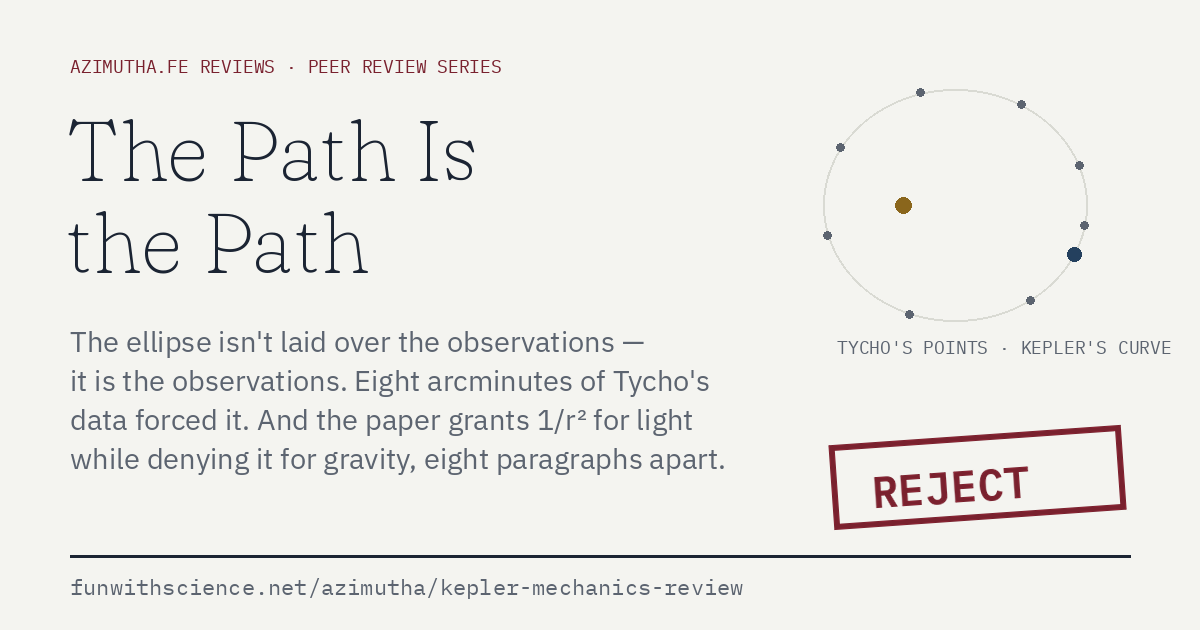
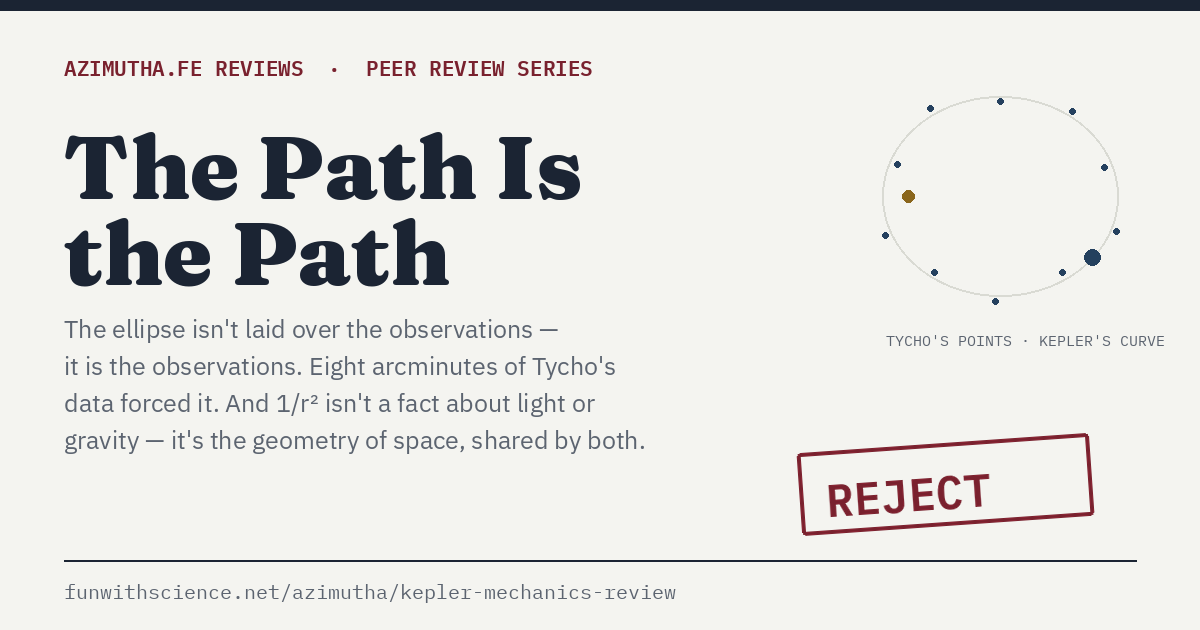
Reframe kepler inverse-square over-claim; correct gyroscope citation framing

diff --git a/kepler-mechanics-review/index.html b/kepler-mechanics-review/index.html
@@ -4,18 +4,18 @@
 <meta charset="UTF-8">
 <meta name="viewport" content="width=device-width, initial-scale=1.0">
 <title>The Path Is the Path — the "Keplerian Mechanics Audit" paper, reviewed | FunWithScience</title>
-<meta name="description" content="A review of the 'Critical Audit of Keplerian Mechanics and Foundational Optics' paper, which calls the elliptical orbit a 'geometric abstraction.' The ellipse is the observation: eight arcminutes of Tycho's data forced it. The paper endorses the inverse-square law for light on one slide and denies it for gravity on another.">
+<meta name="description" content="A review of the 'Critical Audit of Keplerian Mechanics and Foundational Optics' paper, which calls the elliptical orbit a 'geometric abstraction.' The ellipse is the observation: eight arcminutes of Tycho's data forced it. And the paper certifies light's inverse-square law as fact while calling the identical law fiction for gravity — but 1/r² is geometry, not a property of light: anything spread over a sphere's growing area thins as 1/r², so granting it for light grants it for gravity.">
 <meta property="og:type" content="article">
 <meta property="og:site_name" content="FunWithScience">
 <meta property="og:title" content="The Path Is the Path — the 'Keplerian Mechanics Audit' paper, reviewed">
-<meta property="og:description" content="The ellipse isn't laid over the data — it is the data. And the paper grants the inverse-square law for light while denying it for gravity, eight paragraphs apart. Verdict: reject.">
+<meta property="og:description" content="The ellipse isn't laid over the data — it is the data. And the paper certifies light's inverse-square law as fact, then explains it with a 'medium' — but a clean 1/d² law can only come from spreading through empty space. Verdict: reject.">
 <meta property="og:url" content="https://funwithscience.net/azimutha/kepler-mechanics-review/">
 <meta property="og:image" content="https://funwithscience.net/azimutha/kepler-mechanics-review/card.png">
 <meta property="og:image:width" content="1200">
 <meta property="og:image:height" content="630">
 <meta name="twitter:card" content="summary_large_image">
 <meta name="twitter:title" content="The Path Is the Path — the 'Keplerian Mechanics Audit' paper, reviewed">
-<meta name="twitter:description" content="The ellipse is the observation, not an overlay. And the paper endorses 1/r² for light while denying it for gravity. Verdict: reject.">
+<meta name="twitter:description" content="The ellipse is the observation, not an overlay. And the paper certifies light's 1/d² as fact — but that clean law needs the empty-space geometry its 'medium' can't give. Verdict: reject.">
 <meta name="twitter:image" content="https://funwithscience.net/azimutha/kepler-mechanics-review/card.png">
 <link rel="canonical" href="https://funwithscience.net/azimutha/kepler-mechanics-review/">
 <link rel="preconnect" href="https://fonts.googleapis.com">
@@ -131,7 +131,7 @@
     <div class="eyebrow"><a href="../">← Azimutha.FE Reviews</a> · FunWithScience Peer Review Series</div>
     <h1>The Path Is the Path</h1>
     <p class="sub">A review of <em>"A Critical Audit of Keplerian Mechanics and Foundational Optics"</em> — a paper arguing that the elliptical orbit is "geometric abstraction" imposed on raw observation.</p>
-    <p class="byline"><b>Verdict up front:</b> the ellipse is not laid on top of the observations — it <em>is</em> the observations. Eight arcminutes of <a href="https://en.wikipedia.org/wiki/Tycho_Brahe">Tycho Brahe's data</a>, which the paper itself calls hardware-grade, are what forced Kepler off the circle; the circle was the abstraction. And the paper's own text convicts it twice: it endorses the inverse-square law for light as "a verified, measurable fact" three slides after treating the identical law for gravity as chalkboard fiction, and its whole project is to undo the one advance — the fall of epicycles — that the author elsewhere holds up as science's model correction.</p>
+    <p class="byline"><b>Verdict up front:</b> the ellipse is not laid on top of the observations — it <em>is</em> the observations. Eight arcminutes of <a href="https://en.wikipedia.org/wiki/Tycho_Brahe">Tycho Brahe's data</a>, which the paper itself calls hardware-grade, are what forced Kepler off the circle; the circle was the abstraction. And the paper's own physics turns against it: 1/r² is not a fact about light or gravity but about space — any influence spread over a sphere's growing surface (area ∝ r²) thins as 1/r² — so certifying it as "a verified, measurable fact" for light while calling the identical law "fiction" for gravity is accepting the geometry of three-dimensional space for one and denying it for the other. And its whole project is to undo the one advance — the fall of epicycles — that the author elsewhere holds up as science's model correction.</p>
   </div>
 </header>
 
@@ -245,7 +245,7 @@
       <span class="lbl t">What's true</span>
       <p>It is correct that pumping out the air doesn't change the object's weight, and that the feather and the bowling ball then fall together. The paper reports the demonstration accurately.</p>
       <span class="lbl w">The premise doing the work</span>
-      <p>Two false moves, both recycled from the account's earlier papers. First, "cannot be isolated, therefore unverified" is an invented criterion — the same one its gravity and gravimeter papers ran on. A force is measured by its effect; gravity's effect is measured to parts per billion by dropped-mirror gravimeters worldwide. Second, and self-defeating: the section says evacuating the chamber "does not alter the weight causing the downward vector." That grants a downward vector — a force — acting on the object. A measured acceleration of a mass <em>is</em> a force, by definition (F = ma); the feather-and-ball result shows only that the force is proportional to mass, which is why the acceleration is the same for both. The paper concedes the force in the sentence meant to deny it.</p>
+      <p>Two false moves, both recycled from the account's earlier papers. First, "cannot be isolated, therefore unverified" is an invented criterion — the same one its gravity and gravimeter papers ran on. A force is measured by its effect; gravity's effect is measured to parts per billion by dropped-mirror gravimeters worldwide. Second, the section grants a real "downward vector … causing the weight" and only disputes the <em>name</em>: it objects to calling that vector "a universal force called gravity." But that downward vector is the whole phenomenon. A mass-independent acceleration of a mass is, by definition, a force proportional to mass (F = ma) — which is exactly why the feather and the ball fall together. Renaming its cause a "stratified medium" does not make the force go away; it still has to reproduce the same 9.8 m/s², mass-independent, in vacuum. The paper does not escape gravity here — it relabels it.</p>
       <span class="lbl x">The test that would tell</span>
       <p>Time the fall. The feather and the ball accelerate at ~9.8 m/s², identically, in vacuum — a mass-independent acceleration, the fingerprint of a force proportional to mass. That number is a stopwatch measurement, not a placeholder.</p>
       <span class="lbl p">The public record</span>
@@ -277,19 +277,20 @@
   <article class="claim">
     <div class="claim-head">
       <span class="slideref">Section 6 · The inverse-square law</span>
-      <span class="stamp false">Self-Contradicted</span>
+      <span class="stamp false">Refuted by Data</span>
     </div>
     <div class="claim-body">
       <h2>"The inverse-square law of light is a verified, measurable fact of physical reality"</h2>
       <p class="assertion">Light's 1/d² intensity falloff is real and measurable; only the "spherical wave expanding into empty vacuum" interpretation is unestablished — light is really a frequency in a stratified medium.</p>
       <span class="lbl t">What's true</span>
-      <p>Yes — the inverse-square falloff of light with distance is a verified, measurable fact. Stated without qualification, and correctly.</p>
-      <span class="lbl w">The contradiction</span>
-      <p>It is the <em>same law</em> the paper spent Section 3 calling chalkboard fiction. There, the inward gravitational pull "governed by an inverse-square law (1/r²)" was the imaginary math propping up impossible orbits; here, the inverse-square law of intensity is "a verified, measurable fact." One geometry — intensity, force, or field spreading over the surface of a sphere, so falling as 1/r² — endorsed for photons and denied for gravity, eight paragraphs apart. It is not the inverse-square <em>mathematics</em> the paper rejects, since it certifies that math for light. It is specifically the <em>gravitational force</em> it won't grant — which is the through-line of all seven papers, surfacing here as a flat contradiction with itself.</p>
+      <p>Two things, both granted. The inverse-square falloff of light with distance is a verified, measurable fact — stated without qualification, and correctly. And, fairly, a bare scaling relation does not by itself name its cause; asking <em>why</em> intensity goes as 1/d² is a legitimate question. But the answer is not a property of light — it is a property of space.</p>
+      <span class="lbl w">The self-defeat</span>
+      <p><strong>1/r² is not a fact about light; it is a fact about geometry.</strong> Any conserved quantity streaming out of a point is spread over the surface of an expanding sphere, whose area grows as r² — so it thins as 1/r²: light, sound, an electric field, a gravitational field, all identically, because each is answering the same question, <em>how big is a sphere</em>, not <em>what am I made of</em>. (Formally it is Gauss's law: the flux through any sphere drawn around the source is the same, so what crosses it falls as 1/area, and area grows as r².) So when the paper certifies 1/d² for light as "a verified, measurable fact" and, three slides earlier, calls the identical 1/r² for gravity "chalkboard fiction," it is accepting the geometry of three-dimensional space for photons and denying it for gravity — the same law, the same expanding sphere. There is no coherent place to stand there.</p>
+      <p>And the paper's own alternative cannot even produce the law it wants to keep. It blames light's falloff on a pulse "moving through a uniform, stratified medium." But a medium that actually acts on what crosses it imposes its <em>own</em> length scale — exponential extinction when it absorbs (Beer–Lambert, I = I₀e<sup>−μd</sup>), a screened Yukawa or diffusive form otherwise — and every one of those bends the curve <em>off</em> a clean 1/d². A clean, unbroken inverse-square is the fingerprint of spreading through <em>empty</em> space with no medium at all — exactly the vacuum the paper set out to deny. Either the medium acts, and breaks the square law the paper just called verified; or it does not, and the geometry is producing the falloff — and the geometry needs a void. The same spherical geometry, applied to gravity, is checked directly in the lab (below).</p>
       <span class="lbl x">The test that would tell</span>
-      <p>Ask what distinguishes the two cases. Both are inverse-square because both spread over a sphere's growing area. The gravitational version is tested directly — the 1/r² law of gravity has been <a href="https://arxiv.org/abs/2002.11761">verified in the laboratory down to separations of tens of microns</a>. If 1/r² is "verified fact" for light, the same geometry, verified for gravity, cannot be fiction.</p>
+      <p>Put the two mechanisms head-to-head. Geometric spreading in vacuum predicts a clean 1/d²; a resisting medium predicts an added exponential (Beer–Lambert) term that depends on how much stuff sits in the path, not just on distance. Astronomy sees the clean square law — once the places where a real medium <em>does</em> intervene (interstellar extinction) are measured, they show up as exactly the separate, exponential dimming Beer–Lambert requires, distinct from geometric falloff. The medium leaves an exponential signature; the paper's falloff has none, because it is pure geometry. And that same spherical geometry, applied to gravity, is <a href="https://arxiv.org/abs/2002.11761">verified in the laboratory down to separations of tens of microns</a>.</p>
       <span class="lbl p">The public record</span>
-      <p>The gravitational inverse-square law is confirmed by torsion-balance experiments to sub-millimetre ranges (<a href="https://arxiv.org/abs/2002.11761">Lee et al., 2020, down to 52 μm</a>), by the entire success of celestial mechanics, and by every spacecraft navigated on it. The paper certifies the geometry for one force and refuses it for the other, with nothing distinguishing them but which one holds the planets up.</p>
+      <p>A clean inverse-square is the fingerprint of flux conserved over an expanding spherical shell in empty space — which is why photometry, radiometric distance, and radiation dosimetry all run on 1/d², and why real absorbing media are handled by a <em>separate</em>, exponential Beer–Lambert term. The identical spherical geometry governs gravity's 1/r², confirmed by torsion-balance experiments to sub-millimetre ranges (<a href="https://arxiv.org/abs/2002.11761">Lee et al., 2020, <em>Phys. Rev. Lett.</em> 124, 101101, down to 52 μm</a>), by the whole success of celestial mechanics, and by every spacecraft navigated on it. The paper accepts the geometry's fingerprint and denies the geometry that leaves it.</p>
     </div>
   </article>
 </section>

diff --git a/gyroscope-review/index.html b/gyroscope-review/index.html
@@ -343,7 +343,7 @@
       <span class="lbl x">The test that would tell</span>
       <p>Take the sundial seriously. Time the shadow: it sweeps 15°/h — the same number, from the same rotation, that every gyrocompass reads. The paper's chosen counter-example is a working Earth-rate instrument with four thousand years of uptime.</p>
       <span class="lbl p">The public record</span>
-      <p>The paper's first two papers already conceded this card. The gravity "audit" approvingly quoted the WGS84 formula whose sin²(latitude) term is roughly two-thirds <em>centrifugal</em> — Earth's rotation, endorsed as a term in the author's own citation. And the gravimeter paper granted that survey-gravimeter results are "real and repeatable": marine and airborne gravity surveys only reduce correctly after the Eötvös correction — about 7.5 mGal per knot of east-west speed at the equator — which exists because the survey ship is moving over a rotating planet. The author's accepted data requires the rotation this paper denies.</p>
+      <p>The paper's first two papers already work against it, in two ways. The gravity "audit" can't state the standard model without importing the rotation: it reproduces the WGS84 formula, whose sin²(latitude) term is roughly two-thirds <em>centrifugal</em> — the very effect of Earth's rotation — and although it quotes the formula only to reject it, the number it rejects is the rotation signature. And the gravimeter paper granted that survey-gravimeter results are "real and repeatable": marine and airborne gravity surveys only reduce correctly after the Eötvös correction — about 7.5 mGal per knot of east-west speed at the equator — which exists because the survey ship is moving over a rotating planet. The author's accepted data requires the rotation this paper denies.</p>
     </div>
   </article>
 </section>